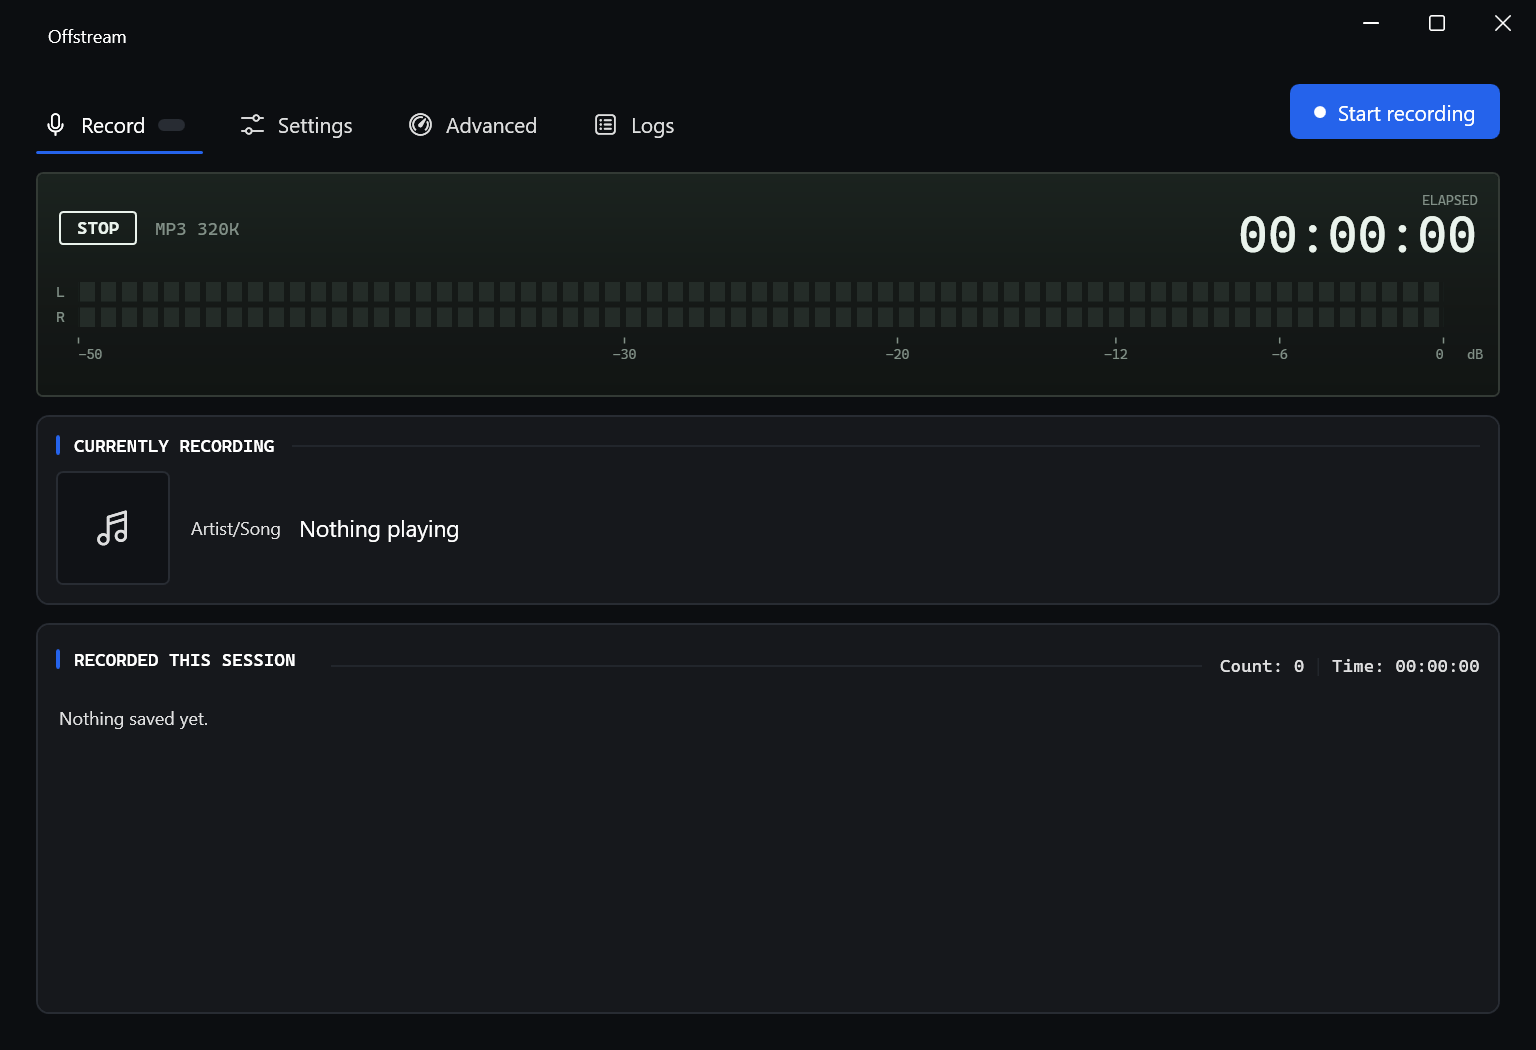
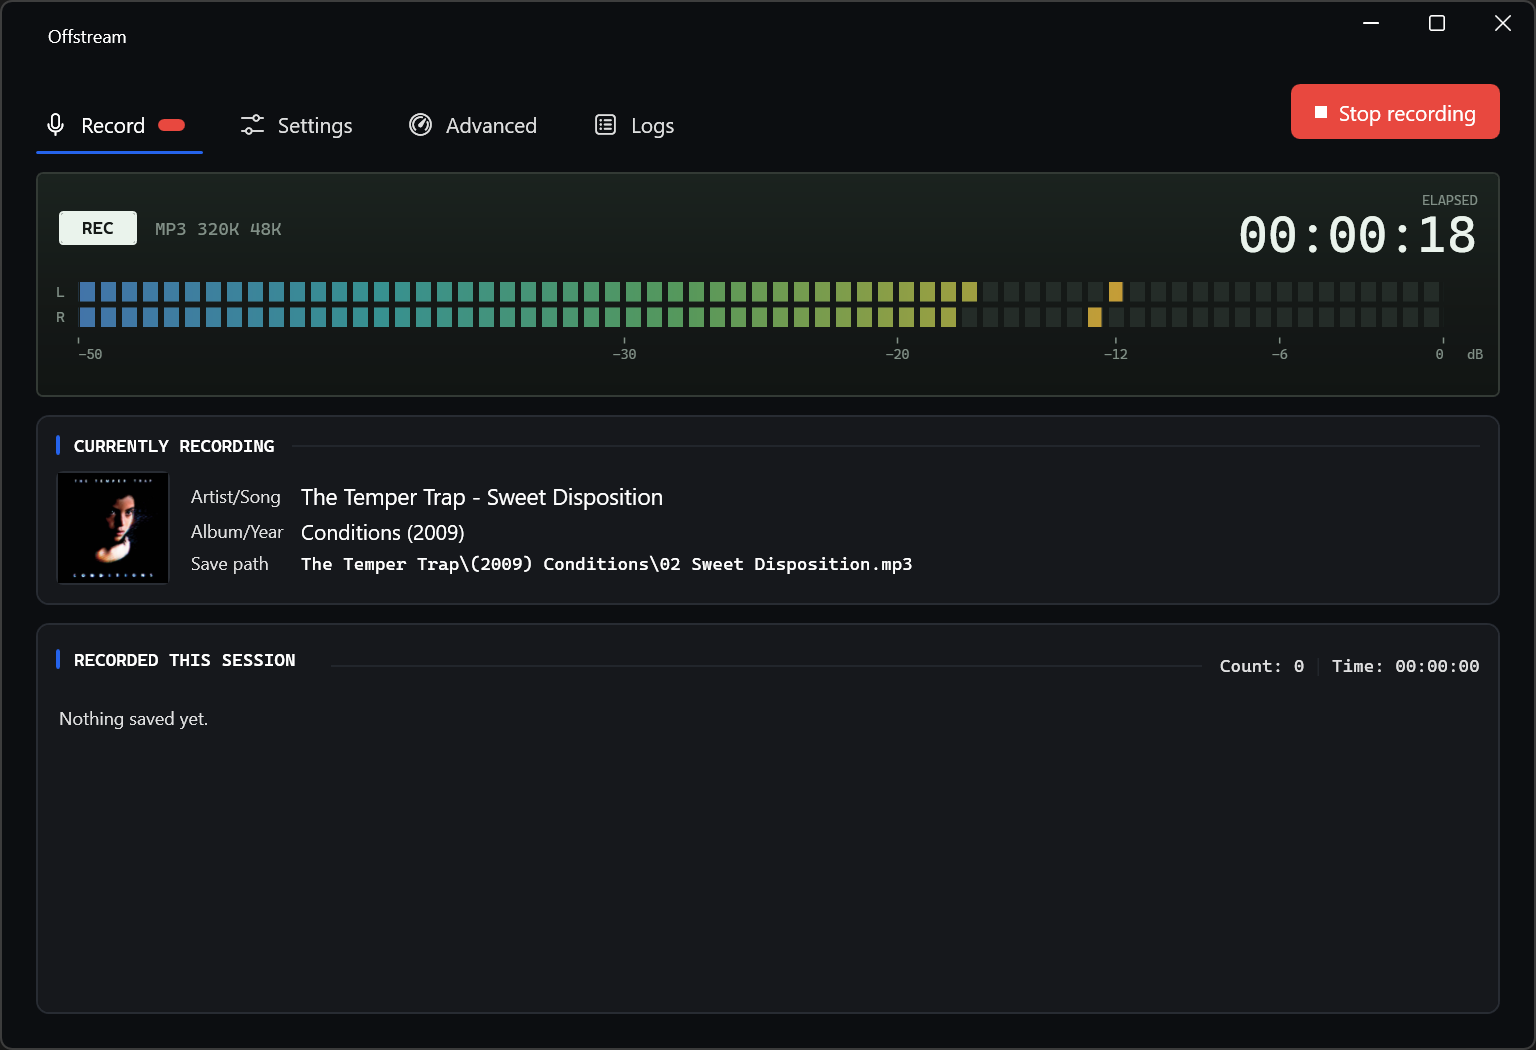
Show the Record page recording, not sitting idle
The lead screenshot was an empty window: "Nothing playing", a flat meter and
"Nothing saved yet", which is a poor answer to the question a reader opens
the README with. This one is eighteen seconds into a track, with the meter
live, the cover art and album already looked up, and the Save path showing
the file the recording is becoming — the whole point of the app in one
frame. Its save path is relative to the library folder, so it carries no
account name.

The filename example now matches what that path shows, including the :00
padding that makes track 2 file as 02.

diff --git a/README.md b/README.md
@@ -11,10 +11,11 @@ It is a Windows 11 desktop app. It never asks for your Spotify password, and you
 your machine — the only thing that ever leaves it is a "who sings this?" lookup, and only if you
 turn one on.
 
-![The Offstream Record page: a Start recording button, transport with elapsed time, a stereo level meter, the track currently being recorded, and the list of files saved this session](docs/images/record.png)
+![The Offstream Record page mid-recording: a REC transport reading MP3 320K 48K and 18 seconds elapsed, a live stereo level meter, and the track being captured with its cover art, album, year and the file it is being written to](docs/images/record.png)
 
-*The Record page, idle. Once you press Start the meter moves with the audio, the middle card names
-the song being recorded, and every finished file drops into the list below it.*
+*Eighteen seconds into a song. The meter moves with the audio, the cover art and album have already
+been looked up, and the Save path shows exactly which file this will become. Each finished track
+drops into the list below as it is completed.*
 
 ## What it does
 
@@ -130,8 +131,10 @@ The **Advanced** page is where the details live.
 ![The Offstream Advanced page: filename template with a live preview, detection options, tag options and app options](docs/images/advanced.png)
 
 **File names** are a template with a live preview, so you can see exactly what the next file will be
-called before you record anything. Use `\` to make folders — `{artist}\{album} ({year})\{title}`
-gives you a tidy library tree instead of one flat pile.
+called before you record anything. Use `\` to make folders — `{artist}\({year}) {album}\{track:00}
+{title}` gives you a tidy library tree instead of one flat pile, and is the template producing the
+Save path in the first screenshot. The `:00` pads a number to two digits, so track 2 files as `02`
+and sorts where you expect it to.
 
 | Token | Is replaced with |
 | --- | --- |
